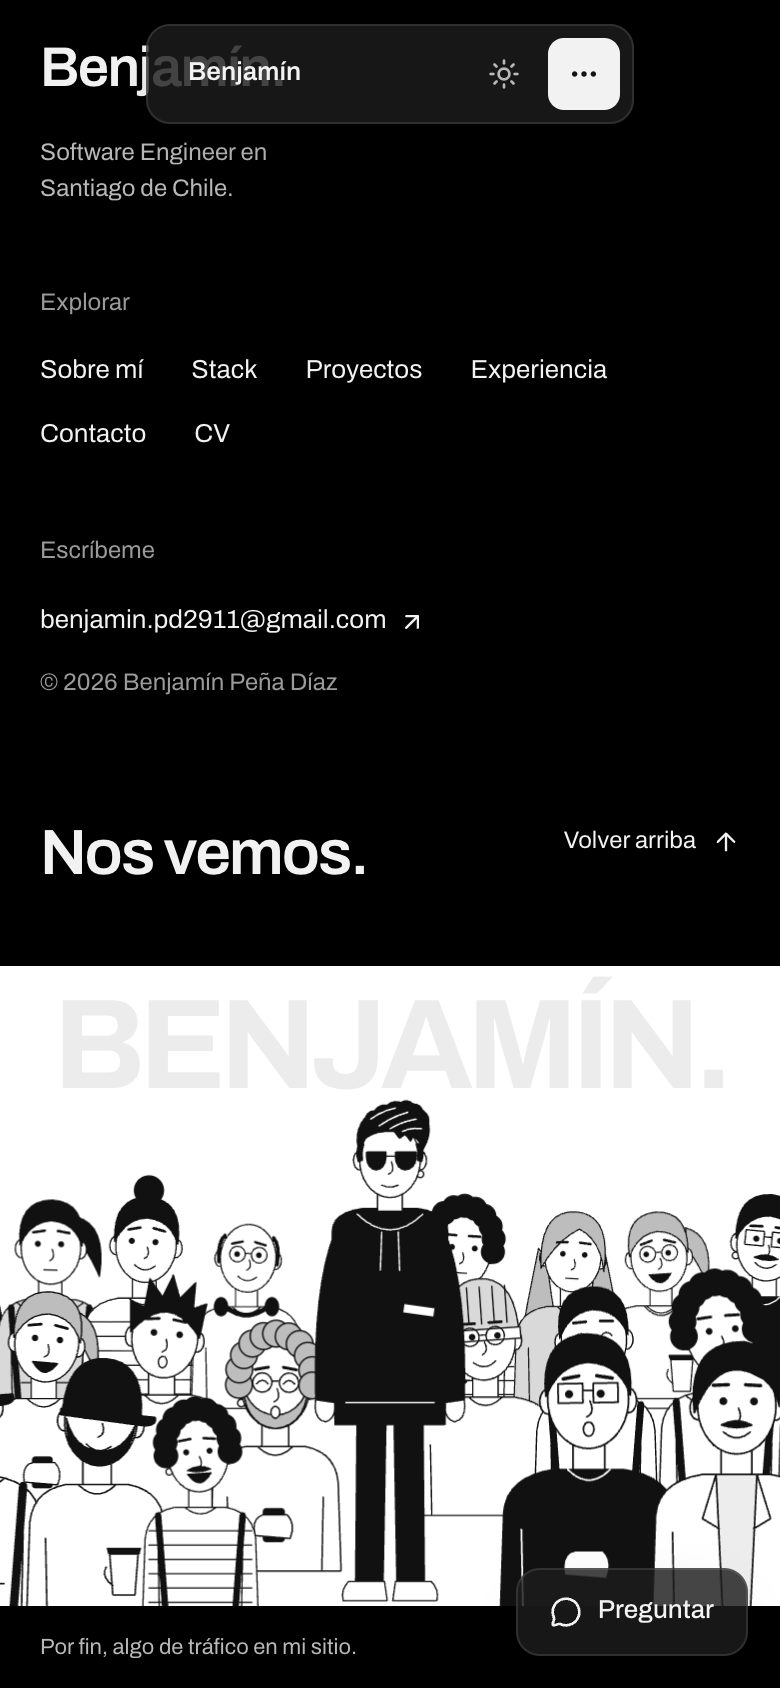
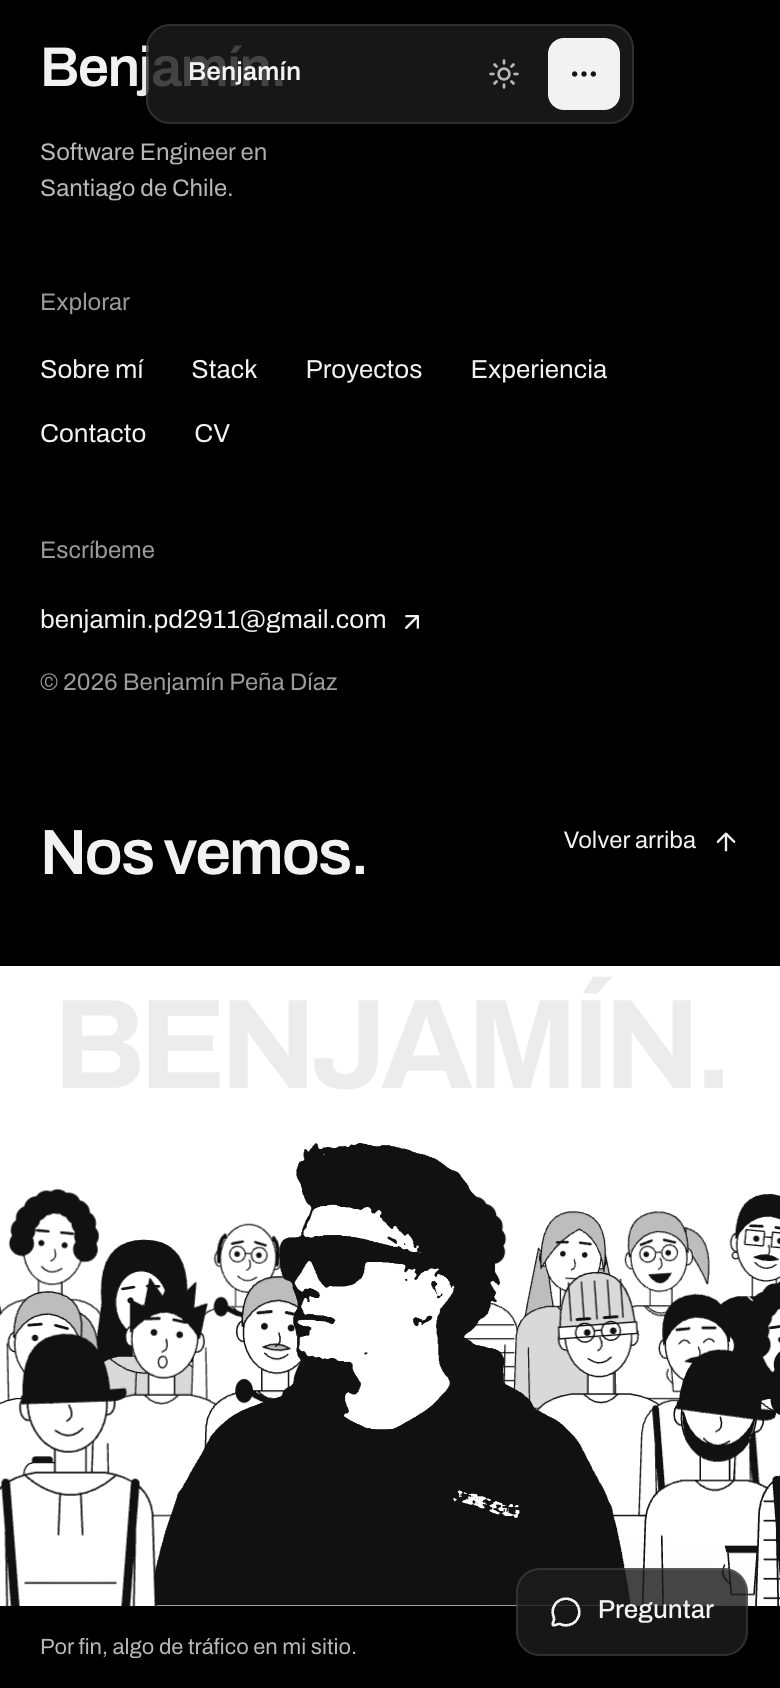
feat(v5): illustrate Benjamín from his portfolio photo
Replaces the hand-drawn figure with an ink illustration generated from the
BiRefNet cutout of his portfolio photo (dark areas and edges in black, the
rest white, hoodie filled solid), placed at the centre of the crowd.
scripts/ilustrar-retrato.mjs regenerates it; the PNG is a 4-colour palette
of about 5 KB.

Changed region(s): [[0.0, 0.6469, 1.0, 0.955]]

diff --git a/src/components/layout/Multitud.tsx b/src/components/layout/Multitud.tsx
@@ -8,8 +8,8 @@ import type { ReactNode } from "react";
  *
  * Gente dibujada a línea, en blanco y negro, generada aquí mismo con una
  * semilla (no es la ilustración del reel: cada persona sale de combinar
- * peinados, ropa, caras y accesorios). Benjamín va al centro, de negro, de
- * cuerpo entero, con su pelo liso y texturizado y lentes de sol.
+ * peinados, ropa, caras y accesorios). Benjamín va al centro, ilustrado en
+ * tinta a partir de su foto: copete, lentes de sol y polerón negro.
  *
  * - Al entrar en pantalla, las filas suben desde abajo, de atrás hacia
  *   adelante.
@@ -239,60 +239,17 @@ function DibujoPersona({ p }: { p: Persona }) {
   );
 }
 
-/**
- * El pelo de Benjamín: liso y texturizado, con volumen arriba peinado hacia
- * un lado, puntas desordenadas y los lados cortos. El borde de arriba son
- * mechones en punta; las líneas blancas marcan la dirección del peinado.
- */
-const PELO_BENJAMIN =
-  "M -23 -350 Q -26 -364 -18 -373 Q -16 -378 -11 -378 Q -8 -383 -2 -382 Q 2 -386 8 -384 Q 12 -387 17 -383 " +
-  "Q 22 -383 24 -378 Q 29 -375 28 -369 Q 30 -360 24 -350 " +
-  "Q 21 -357 17 -360 L 15 -356 L 11 -361 L 7 -358 L 3 -363 Q -10 -364 -18 -358 Q -21 -355 -23 -350 Z";
-const MECHAS_BENJAMIN =
-  "M -14 -372 Q -6 -378 4 -380 M -8 -367 Q 2 -374 13 -377 M 0 -365 Q 8 -370 19 -372 M 9 -363 Q 15 -366 23 -365";
-
-/** Benjamín de cuerpo entero: polerón y pantalón negros, pelo texturizado y lentes de sol. */
-function DibujoBenjamin() {
-  return (
-    <g strokeLinecap="round" strokeLinejoin="round" stroke={TINTA}>
-      {/* piernas y zapatillas */}
-      <path d="M -24 -128 L -25 -14 L -5 -14 L -3 -128 Z M 3 -128 L 5 -14 L 25 -14 L 24 -128 Z" fill={TINTA} />
-      <path d="M -30 -14 L -4 -14 L -2 0 L -34 0 Q -36 -8 -30 -14 Z M 4 -14 L 30 -14 Q 36 -8 34 0 L 2 0 Z" fill={PAPEL} />
-      <g transform="translate(0 22)">
-        {/* brazos */}
-        <path d="M -40 -290 Q -56 -250 -54 -168 L -40 -166 Q -38 -236 -32 -262 Z M 40 -290 Q 56 -250 54 -168 L 40 -166 Q 38 -236 32 -262 Z" fill={TINTA} />
-        <path d="M -54 -168 Q -56 -154 -47 -152 Q -39 -154 -40 -166 Z M 54 -168 Q 56 -154 47 -152 Q 39 -154 40 -166 Z" fill={PAPEL} />
-        {/* polerón */}
-        <path d="M -42 -290 Q -42 -304 -20 -307 L 20 -307 Q 42 -304 42 -290 L 40 -150 L -40 -150 Z" fill={TINTA} />
-        <path d="M -24 -303 Q 0 -280 24 -303" fill="none" stroke={PAPEL} />
-        <path d="M -6 -290 L -7 -262 M 6 -290 L 7 -262" stroke={PAPEL} />
-        <path d="M -32 -166 L 32 -166" stroke={PAPEL} />
-        <rect x={10} y={-236} width={22} height={6} fill={PAPEL} stroke="none" transform="rotate(8 21 -233)" />
-        {/* cuello y cabeza */}
-        <path d="M -9 -320 L -9 -305 L 9 -305 L 9 -320" fill={PAPEL} />
-        <ellipse cx={-22} cy={-342} rx={4.5} ry={7} fill={PAPEL} />
-        <ellipse cx={22} cy={-342} rx={4.5} ry={7} fill={PAPEL} />
-        <circle cx={22} cy={-332} r={2.5} fill="none" />
-        <ellipse cx={0} cy={-342} rx={22} ry={27} fill={PAPEL} />
-        {/* lados más cortos, pegados a la cabeza */}
-        <path d="M -23 -354 Q -25 -346 -23 -341 L -20 -342 Q -21 -348 -19 -354 Z M 23 -354 Q 25 -346 23 -341 L 20 -342 Q 21 -348 19 -354 Z" fill={TINTA} />
-        {/* pelo liso y texturizado, con volumen peinado hacia un lado */}
-        <path d={PELO_BENJAMIN} fill={TINTA} />
-        <path d={MECHAS_BENJAMIN} fill="none" stroke={PAPEL} strokeWidth={1.1} />
-        {/* lentes de sol, como en su foto */}
-        <path d="M -17 -348 L -3 -348 Q -2 -336 -10 -335 Q -18 -336 -17 -348 Z M 4 -348 L 19 -348 Q 20 -336 11 -335 Q 3 -336 4 -348 Z M -3 -345 L 4 -345 M 19 -346 L 23 -344" fill={TINTA} />
-        <path d="M 1 -341 Q 4 -334 -1 -332" fill="none" />
-        <path d="M -6 -324 Q 0 -321 6 -324" fill="none" />
-      </g>
-    </g>
-  );
-}
+/** Proporción del retrato ilustrado (public/benjamin-ilustrado.png, 887 × 862). */
+const RETRATO = { w: 887, h: 862 };
 
 type Lugar = { id: number; x: number; y: number; s: number; fila: number };
 
 function armar(W: number, H: number, semilla: number) {
   const k = H / 480;
   const centro = W / 2;
+  // Benjamín: el retrato ilustrado, apoyado abajo al centro.
+  const benjaAlto = Math.min(H * 0.78, (W * 0.62 * RETRATO.h) / RETRATO.w);
+  const benjaAncho = (benjaAlto * RETRATO.w) / RETRATO.h;
   const lugares: Lugar[] = [];
   const filas = [
     { y: H - 150 * k, s: 0.95 * k, paso: 74 * k, fila: 0 },
@@ -304,7 +261,7 @@ function armar(W: number, H: number, semilla: number) {
   for (const f of filas) {
     let x = -f.paso * (0.2 + r() * 0.5);
     while (x < W + f.paso) {
-      const hueco = f.fila === 2 ? 64 * k : f.fila === 1 ? 30 * k : 0;
+      const hueco = f.fila === 2 ? benjaAncho * 0.42 : f.fila === 1 ? benjaAncho * 0.22 : 0;
       if (Math.abs(x - centro) > hueco) {
         const s = f.s * (r() < 0.12 && f.fila === 2 ? 0.78 : 0.94 + r() * 0.12);
         lugares.push({ id: id++, x: x + (r() - 0.5) * f.paso * 0.3, y: f.y, s, fila: f.fila });
@@ -312,7 +269,7 @@ function armar(W: number, H: number, semilla: number) {
       x += f.paso * (0.85 + r() * 0.3);
     }
   }
-  return { lugares, k };
+  return { lugares, k, benja: { x: centro - benjaAncho / 2, y: H - benjaAlto, w: benjaAncho, h: benjaAlto } };
 }
 
 export function Multitud({ trafico, descripcion }: { trafico: string; descripcion: string }) {
@@ -406,10 +363,15 @@ export function Multitud({ trafico, descripcion }: { trafico: string; descripcio
                   </g>
                 )),
             )}
-            <g transform={`translate(${tam.W / 2} ${tam.H - 4 * plano.k}) scale(${Math.min(plano.k * 1.2, (tam.H * 0.86) / 400)})`}>
-              <g className="persona persona--benja" style={{ ["--fila" as string]: 1.5, ["--retraso" as string]: "0.1s" }}>
-                <DibujoBenjamin />
-              </g>
+            {/* Benjamín, ilustrado a partir de su foto (scripts/ilustrar-retrato.mjs) */}
+            <g className="persona persona--benja" style={{ ["--fila" as string]: 1.5, ["--retraso" as string]: "0.1s" }}>
+              <image
+                href="/benjamin-ilustrado.png"
+                x={plano.benja.x}
+                y={plano.benja.y}
+                width={plano.benja.w}
+                height={plano.benja.h}
+              />
             </g>
             {plano.lugares
               .filter((l) => l.fila === 2)

diff --git a/README.md b/README.md
@@ -32,7 +32,8 @@ pero es propia: no se copió la ilustración del reel (es arte de otra persona).
 8. **Pie:** banda negra con «Nos vemos.» y, abajo, la banda blanca con
    «BENJAMÍN.» gigante y una **multitud ilustrada a línea**, generada en SVG
    combinando peinados, ropa, caras y accesorios. Benjamín está al centro, de
-   negro, de cuerpo entero, con pelo liso texturizado y lentes de sol. Las filas suben al entrar,
+   ilustrado en tinta a partir de su foto (copete, lentes de sol y polerón negro;
+   `scripts/ilustrar-retrato.mjs`). Las filas suben al entrar,
    cada 2,4 s alguien se va y llega otra persona, al apuntar dan un saltito y un
    clic cambia a quien tocas. Cierra con «Por fin, algo de tráfico en mi sitio.».
 9. **Preguntar:** el «Ask AI» del reel, sin modelo detrás. Responde con los
